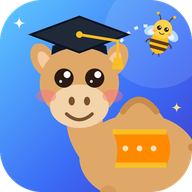
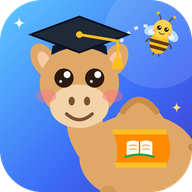
Сабур: на попоне раскрытая книга (знания); Алифба открыта в списке предметов уроков
Claude-Session: https://claude.ai/code/session_01Cm4BGiETkxANavc8i9VW5H

Changed region(s): [[0.625, 0.7188, 0.8125, 0.8438]]

diff --git a/index.html b/index.html
@@ -436,6 +436,7 @@ html[data-theme] .abopts .lopt.ar{font-size:40px;text-align:center;line-height:1
 .abf i{font-style:normal;font-size:30px;line-height:1.5}.abf small{font-size:10px;color:var(--mut);direction:ltr}
 .abgrid{display:grid;grid-template-columns:repeat(3,1fr);gap:10px;margin:10px 0}.abc{display:flex;flex-direction:column;align-items:center;background:var(--card2);border-radius:16px;padding:8px}.abc small{color:var(--mut)}
 .abrow{display:flex;flex-wrap:wrap;gap:8px;justify-content:center;font-size:34px;margin:8px 0}.abg{font-size:38px;background:var(--qbg);border-radius:12px;padding:0 10px}
+button.sj{border:0;font:inherit;font-weight:800;cursor:pointer}.sj.cur{box-shadow:0 0 0 2px var(--q) inset}
 </style>
 <script>(function(){var t="light";try{t=JSON.parse(localStorage.getItem("theme"))||"light"}catch(e){}document.documentElement.setAttribute("data-theme",t==="dark"?"dark":"light")})()</script>
 </head>
@@ -474,7 +475,7 @@ var OLD_EMOJI={"🦁":"b-lion","🐯":"b-tiger","🐺":"b-wolf","🐻":"b-bear",
   d.innerHTML='<svg xmlns="http://www.w3.org/2000/svg" width="0" height="0">'+AVS.map(function(a){return '<symbol id="av-'+a[0]+'" viewBox="0 0 100 100">'+a[3]+'</symbol>'}).join("")+'</svg>';
   document.body.appendChild(d)})();
 /* Персонажи платформы: верблюжонок Сабур и его помощница пчёлка Асаль */
-var MASC={"sab": "<ellipse cx=\"118\" cy=\"128\" rx=\"46\" ry=\"34\" fill=\"#e0a868\"/><path d=\"M96 104Q118 62 142 104Z\" fill=\"#e0a868\"/><path d=\"M106 92q12 -18 26 0\" stroke=\"#c98d4b\" stroke-width=\"5\" fill=\"none\" stroke-linecap=\"round\"/><rect x=\"88\" y=\"150\" width=\"13\" height=\"36\" rx=\"6\" fill=\"#d39a58\"/><rect x=\"108\" y=\"152\" width=\"13\" height=\"34\" rx=\"6\" fill=\"#e0a868\"/><rect x=\"132\" y=\"152\" width=\"13\" height=\"34\" rx=\"6\" fill=\"#d39a58\"/><rect x=\"150\" y=\"148\" width=\"13\" height=\"38\" rx=\"6\" fill=\"#e0a868\"/><path d=\"M160 120q16 4 14 22\" stroke=\"#c98d4b\" stroke-width=\"6\" fill=\"none\" stroke-linecap=\"round\"/><path d=\"M64 86Q56 112 80 138L104 128Q88 110 90 86Z\" fill=\"#e0a868\"/><ellipse cx=\"44\" cy=\"52\" rx=\"9\" ry=\"14\" transform=\"rotate(-28 44 52)\" fill=\"#e0a868\"/><ellipse cx=\"45\" cy=\"53\" rx=\"4.5\" ry=\"8.5\" transform=\"rotate(-28 45 53)\" fill=\"#f7c9a0\"/><ellipse cx=\"100\" cy=\"52\" rx=\"9\" ry=\"14\" transform=\"rotate(28 100 52)\" fill=\"#e0a868\"/><ellipse cx=\"99\" cy=\"53\" rx=\"4.5\" ry=\"8.5\" transform=\"rotate(28 99 53)\" fill=\"#f7c9a0\"/><ellipse cx=\"72\" cy=\"70\" rx=\"31\" ry=\"29\" fill=\"#e0a868\"/><ellipse cx=\"72\" cy=\"88\" rx=\"23\" ry=\"17\" fill=\"#f3d3a9\"/><circle cx=\"60\" cy=\"66\" r=\"7.5\" fill=\"#2a1a12\"/><circle cx=\"62.4\" cy=\"63.3\" r=\"2.6999999999999997\" fill=\"#fff\"/><circle cx=\"57.375\" cy=\"68.625\" r=\"1.2\" fill=\"#fff\" opacity=\".8\"/><circle cx=\"84\" cy=\"66\" r=\"7.5\" fill=\"#2a1a12\"/><circle cx=\"86.4\" cy=\"63.3\" r=\"2.6999999999999997\" fill=\"#fff\"/><circle cx=\"81.375\" cy=\"68.625\" r=\"1.2\" fill=\"#fff\" opacity=\".8\"/><ellipse cx=\"46\" cy=\"80\" rx=\"8\" ry=\"5\" fill=\"#fb7185\" opacity=\".45\"/><ellipse cx=\"98\" cy=\"80\" rx=\"8\" ry=\"5\" fill=\"#fb7185\" opacity=\".45\"/><ellipse cx=\"66\" cy=\"84\" rx=\"2.4\" ry=\"3.4\" fill=\"#7a5230\"/><ellipse cx=\"78\" cy=\"84\" rx=\"2.4\" ry=\"3.4\" fill=\"#7a5230\"/><path d=\"M62 94q10 9 20 0\" stroke=\"#7a5230\" stroke-width=\"2.6\" fill=\"none\" stroke-linecap=\"round\"/><path d=\"M98 108L140 108Q146 122 140 134L100 134Q104 120 98 108Z\" fill=\"#FF8A00\"/><path d=\"M98 108L140 108\" stroke=\"#fbbf24\" stroke-width=\"4\"/><path d=\"M100 134L140 134\" stroke=\"#fbbf24\" stroke-width=\"4\"/><circle cx=\"108\" cy=\"121\" r=\"2.2\" fill=\"#FFE1B3\"/><circle cx=\"119\" cy=\"121\" r=\"2.2\" fill=\"#FFE1B3\"/><circle cx=\"130\" cy=\"121\" r=\"2.2\" fill=\"#FFE1B3\"/><path d=\"M50 48Q72 36 94 48L93 41Q72 31 51 41Z\" fill=\"#111827\"/><path d=\"M72 18L110 32L72 46L34 32Z\" fill=\"#1f2937\"/><path d=\"M72 18L110 32L72 46L34 32Z\" fill=\"none\" stroke=\"#0b1220\" stroke-width=\"1.5\"/><circle cx=\"72\" cy=\"32\" r=\"2.6\" fill=\"#fbbf24\"/><path d=\"M72 32L102 37L102 52\" stroke=\"#fbbf24\" stroke-width=\"2.2\" fill=\"none\" stroke-linecap=\"round\"/><path d=\"M99 50h6l1.5 9h-9Z\" fill=\"#fbbf24\"/>", "asl": "<ellipse cx=\"58\" cy=\"96\" rx=\"30\" ry=\"20\" transform=\"rotate(-28 58 96)\" fill=\"#bfe3ff\" opacity=\".9\"/><ellipse cx=\"142\" cy=\"96\" rx=\"30\" ry=\"20\" transform=\"rotate(28 142 96)\" fill=\"#bfe3ff\" opacity=\".9\"/><ellipse cx=\"62\" cy=\"100\" rx=\"18\" ry=\"11\" transform=\"rotate(-28 62 100)\" fill=\"#e6f4ff\"/><ellipse cx=\"138\" cy=\"100\" rx=\"18\" ry=\"11\" transform=\"rotate(28 138 100)\" fill=\"#e6f4ff\"/><defs><clipPath id=\"ms-bb\"><ellipse cx=\"100\" cy=\"138\" rx=\"38\" ry=\"44\"/><\/clipPath><\/defs><ellipse cx=\"100\" cy=\"138\" rx=\"38\" ry=\"44\" fill=\"#fbbf24\"/><g clip-path=\"url(#ms-bb)\"><rect x=\"50\" y=\"128\" width=\"100\" height=\"13\" fill=\"#5b3a1a\"/><rect x=\"50\" y=\"152\" width=\"100\" height=\"13\" fill=\"#5b3a1a\"/><\/g><path d=\"M90 180l-3 9M110 180l3 9\" stroke=\"#5b3a1a\" stroke-width=\"4\" stroke-linecap=\"round\"/><path d=\"M64 130q-14 4 -16 16M136 130q14 4 16 16\" stroke=\"#5b3a1a\" stroke-width=\"5\" fill=\"none\" stroke-linecap=\"round\"/><path d=\"M84 48Q76 26 66 22M116 48Q124 26 134 22\" stroke=\"#5b3a1a\" stroke-width=\"4\" fill=\"none\" stroke-linecap=\"round\"/><circle cx=\"66\" cy=\"22\" r=\"6\" fill=\"#fbbf24\"/><circle cx=\"134\" cy=\"22\" r=\"6\" fill=\"#fbbf24\"/><circle cx=\"100\" cy=\"80\" r=\"38\" fill=\"#fcd34d\"/><circle cx=\"85\" cy=\"78\" r=\"9\" fill=\"#2a1a12\"/><circle cx=\"87.88\" cy=\"74.76\" r=\"3.2399999999999998\" fill=\"#fff\"/><circle cx=\"81.85\" cy=\"81.15\" r=\"1.44\" fill=\"#fff\" opacity=\".8\"/><circle cx=\"115\" cy=\"78\" r=\"9\" fill=\"#2a1a12\"/><circle cx=\"117.88\" cy=\"74.76\" r=\"3.2399999999999998\" fill=\"#fff\"/><circle cx=\"111.85\" cy=\"81.15\" r=\"1.44\" fill=\"#fff\" opacity=\".8\"/><ellipse cx=\"68\" cy=\"94\" rx=\"8\" ry=\"5\" fill=\"#fb7185\" opacity=\".45\"/><ellipse cx=\"132\" cy=\"94\" rx=\"8\" ry=\"5\" fill=\"#fb7185\" opacity=\".45\"/><path d=\"M90 96q10 10 20 0\" stroke=\"#5b3a1a\" stroke-width=\"3\" fill=\"none\" stroke-linecap=\"round\"/>"};
+var MASC={"sab": "<ellipse cx=\"118\" cy=\"128\" rx=\"46\" ry=\"34\" fill=\"#e0a868\"/><path d=\"M96 104Q118 62 142 104Z\" fill=\"#e0a868\"/><path d=\"M106 92q12 -18 26 0\" stroke=\"#c98d4b\" stroke-width=\"5\" fill=\"none\" stroke-linecap=\"round\"/><rect x=\"88\" y=\"150\" width=\"13\" height=\"36\" rx=\"6\" fill=\"#d39a58\"/><rect x=\"108\" y=\"152\" width=\"13\" height=\"34\" rx=\"6\" fill=\"#e0a868\"/><rect x=\"132\" y=\"152\" width=\"13\" height=\"34\" rx=\"6\" fill=\"#d39a58\"/><rect x=\"150\" y=\"148\" width=\"13\" height=\"38\" rx=\"6\" fill=\"#e0a868\"/><path d=\"M160 120q16 4 14 22\" stroke=\"#c98d4b\" stroke-width=\"6\" fill=\"none\" stroke-linecap=\"round\"/><path d=\"M64 86Q56 112 80 138L104 128Q88 110 90 86Z\" fill=\"#e0a868\"/><ellipse cx=\"44\" cy=\"52\" rx=\"9\" ry=\"14\" transform=\"rotate(-28 44 52)\" fill=\"#e0a868\"/><ellipse cx=\"45\" cy=\"53\" rx=\"4.5\" ry=\"8.5\" transform=\"rotate(-28 45 53)\" fill=\"#f7c9a0\"/><ellipse cx=\"100\" cy=\"52\" rx=\"9\" ry=\"14\" transform=\"rotate(28 100 52)\" fill=\"#e0a868\"/><ellipse cx=\"99\" cy=\"53\" rx=\"4.5\" ry=\"8.5\" transform=\"rotate(28 99 53)\" fill=\"#f7c9a0\"/><ellipse cx=\"72\" cy=\"70\" rx=\"31\" ry=\"29\" fill=\"#e0a868\"/><ellipse cx=\"72\" cy=\"88\" rx=\"23\" ry=\"17\" fill=\"#f3d3a9\"/><circle cx=\"60\" cy=\"66\" r=\"7.5\" fill=\"#2a1a12\"/><circle cx=\"62.4\" cy=\"63.3\" r=\"2.6999999999999997\" fill=\"#fff\"/><circle cx=\"57.375\" cy=\"68.625\" r=\"1.2\" fill=\"#fff\" opacity=\".8\"/><circle cx=\"84\" cy=\"66\" r=\"7.5\" fill=\"#2a1a12\"/><circle cx=\"86.4\" cy=\"63.3\" r=\"2.6999999999999997\" fill=\"#fff\"/><circle cx=\"81.375\" cy=\"68.625\" r=\"1.2\" fill=\"#fff\" opacity=\".8\"/><ellipse cx=\"46\" cy=\"80\" rx=\"8\" ry=\"5\" fill=\"#fb7185\" opacity=\".45\"/><ellipse cx=\"98\" cy=\"80\" rx=\"8\" ry=\"5\" fill=\"#fb7185\" opacity=\".45\"/><ellipse cx=\"66\" cy=\"84\" rx=\"2.4\" ry=\"3.4\" fill=\"#7a5230\"/><ellipse cx=\"78\" cy=\"84\" rx=\"2.4\" ry=\"3.4\" fill=\"#7a5230\"/><path d=\"M62 94q10 9 20 0\" stroke=\"#7a5230\" stroke-width=\"2.6\" fill=\"none\" stroke-linecap=\"round\"/><path d=\"M98 108L140 108Q146 122 140 134L100 134Q104 120 98 108Z\" fill=\"#FF8A00\"/><path d=\"M98 108L140 108\" stroke=\"#fbbf24\" stroke-width=\"4\"/><path d=\"M100 134L140 134\" stroke=\"#fbbf24\" stroke-width=\"4\"/><g transform=\"translate(119 121)\"><path d=\"M-10 -5Q-5 -7.5 0 -5L0 6Q-5 3.5 -10 6Z\" fill=\"#FFF7E6\"/><path d=\"M10 -5Q5 -7.5 0 -5L0 6Q5 3.5 10 6Z\" fill=\"#FFFDF5\"/><path d=\"M0 -5V6\" stroke=\"#C26D00\" stroke-width=\"1\"/><path d=\"M-8 -2Q-5 -3.3 -2 -2M-8 1Q-5 -.3 -2 1M2 -2Q5 -3.3 8 -2M2 1Q5 -.3 8 1\" stroke=\"#E7B36A\" stroke-width=\".9\" fill=\"none\"/><path d=\"M-11 6.5Q0 3 11 6.5\" stroke=\"#16A34A\" stroke-width=\"1.6\" fill=\"none\" stroke-linecap=\"round\"/><\/g><path d=\"M50 48Q72 36 94 48L93 41Q72 31 51 41Z\" fill=\"#111827\"/><path d=\"M72 18L110 32L72 46L34 32Z\" fill=\"#1f2937\"/><path d=\"M72 18L110 32L72 46L34 32Z\" fill=\"none\" stroke=\"#0b1220\" stroke-width=\"1.5\"/><circle cx=\"72\" cy=\"32\" r=\"2.6\" fill=\"#fbbf24\"/><path d=\"M72 32L102 37L102 52\" stroke=\"#fbbf24\" stroke-width=\"2.2\" fill=\"none\" stroke-linecap=\"round\"/><path d=\"M99 50h6l1.5 9h-9Z\" fill=\"#fbbf24\"/>", "asl": "<ellipse cx=\"58\" cy=\"96\" rx=\"30\" ry=\"20\" transform=\"rotate(-28 58 96)\" fill=\"#bfe3ff\" opacity=\".9\"/><ellipse cx=\"142\" cy=\"96\" rx=\"30\" ry=\"20\" transform=\"rotate(28 142 96)\" fill=\"#bfe3ff\" opacity=\".9\"/><ellipse cx=\"62\" cy=\"100\" rx=\"18\" ry=\"11\" transform=\"rotate(-28 62 100)\" fill=\"#e6f4ff\"/><ellipse cx=\"138\" cy=\"100\" rx=\"18\" ry=\"11\" transform=\"rotate(28 138 100)\" fill=\"#e6f4ff\"/><defs><clipPath id=\"ms-bb\"><ellipse cx=\"100\" cy=\"138\" rx=\"38\" ry=\"44\"/><\/clipPath><\/defs><ellipse cx=\"100\" cy=\"138\" rx=\"38\" ry=\"44\" fill=\"#fbbf24\"/><g clip-path=\"url(#ms-bb)\"><rect x=\"50\" y=\"128\" width=\"100\" height=\"13\" fill=\"#5b3a1a\"/><rect x=\"50\" y=\"152\" width=\"100\" height=\"13\" fill=\"#5b3a1a\"/><\/g><path d=\"M90 180l-3 9M110 180l3 9\" stroke=\"#5b3a1a\" stroke-width=\"4\" stroke-linecap=\"round\"/><path d=\"M64 130q-14 4 -16 16M136 130q14 4 16 16\" stroke=\"#5b3a1a\" stroke-width=\"5\" fill=\"none\" stroke-linecap=\"round\"/><path d=\"M84 48Q76 26 66 22M116 48Q124 26 134 22\" stroke=\"#5b3a1a\" stroke-width=\"4\" fill=\"none\" stroke-linecap=\"round\"/><circle cx=\"66\" cy=\"22\" r=\"6\" fill=\"#fbbf24\"/><circle cx=\"134\" cy=\"22\" r=\"6\" fill=\"#fbbf24\"/><circle cx=\"100\" cy=\"80\" r=\"38\" fill=\"#fcd34d\"/><circle cx=\"85\" cy=\"78\" r=\"9\" fill=\"#2a1a12\"/><circle cx=\"87.88\" cy=\"74.76\" r=\"3.2399999999999998\" fill=\"#fff\"/><circle cx=\"81.85\" cy=\"81.15\" r=\"1.44\" fill=\"#fff\" opacity=\".8\"/><circle cx=\"115\" cy=\"78\" r=\"9\" fill=\"#2a1a12\"/><circle cx=\"117.88\" cy=\"74.76\" r=\"3.2399999999999998\" fill=\"#fff\"/><circle cx=\"111.85\" cy=\"81.15\" r=\"1.44\" fill=\"#fff\" opacity=\".8\"/><ellipse cx=\"68\" cy=\"94\" rx=\"8\" ry=\"5\" fill=\"#fb7185\" opacity=\".45\"/><ellipse cx=\"132\" cy=\"94\" rx=\"8\" ry=\"5\" fill=\"#fb7185\" opacity=\".45\"/><path d=\"M90 96q10 10 20 0\" stroke=\"#5b3a1a\" stroke-width=\"3\" fill=\"none\" stroke-linecap=\"round\"/>"};
 (function(){var d=document.createElement("div");d.setAttribute("aria-hidden","true");d.style.cssText="position:absolute;width:0;height:0;overflow:hidden";
   d.innerHTML='<svg xmlns="http://www.w3.org/2000/svg" width="0" height="0">'+Object.keys(MASC).map(function(k){return '<symbol id="ms-'+k+'" viewBox="0 0 200 200">'+MASC[k]+'</symbol>'}).join("")+'</svg>';document.body.appendChild(d)})();
 function mas(k,w,cls){return '<svg'+(cls?' class="'+cls+'"':"")+' viewBox="0 0 200 200" width="'+w+'" height="'+w+'" aria-hidden="true"><use href="#ms-'+k+'"/></svg>'}
@@ -1922,7 +1923,7 @@ function vListen(){
 // порядок аятов, какой аят звучит, смысл аята, пропущенное слово, найди пару, что за сура.
 var QD=null,QDerr="",LP=null,LS=null,LA=null,LAerr=false;
 var LMOD={id:"q30",name:"Понимаю суры 30-го джуза",list:[1].concat((function(){var a=[];for(var i=114;i>=78;i--)a.push(i);return a})())};
-var SUBJ=[["q","📖","Коран",1],["a","🔤","Арабский",0],["f","🕌","Фикх",0],["k","💎","Акида",0],["x","🌸","Ахляк",0],["h","📜","Хадисы",0],["s","🐪","Сира",0]];
+var SUBJ=[["q","📖","Коран",1],["a","🔤","Алифба",1],["f","🕌","Фикх",0],["k","💎","Акида",0],["x","🌸","Ахляк",0],["h","📜","Хадисы",0],["s","🐪","Сира",0]];
 function qdLoad(){if(QD||QDerr==="busy")return;QDerr="busy";fetch("q30.json").then(function(r){if(!r.ok)throw 0;return r.json()}).then(function(d){QD=d;QDerr="";render()}).catch(function(){QDerr="Не удалось загрузить суры. Проверьте интернет.";render()})}
 function lsid(){return STOK?STOK.sid:PTOK?PTOK.sid:null}
 function lpLoad(){
@@ -1990,7 +1991,7 @@ function lsNext(){
 function vLessons(){
   qdLoad();if(!LP)lpLoad();
   if(LS)return vLesson();
-  var h=STOK&&!canEdit()?"":'<div class="box"><h2>🎓 Уроки</h2><div class="subj">'+SUBJ.map(function(s){return '<span class="sj'+(s[3]?" on":"")+'">'+s[1]+' '+s[2]+(s[3]?"":'<small>скоро</small>')+'</span>'}).join("")+'</div></div>';
+  var h=STOK&&!canEdit()?"":'<div class="box"><h2>🎓 Уроки</h2><div class="subj">'+SUBJ.map(function(s){return s[3]?'<button class="sj on'+((UI.course==="ab")===(s[0]==="a")?" cur":"")+'" data-a="course" data-v="'+(s[0]==="a"?"ab":"q")+'">'+s[1]+' '+s[2]+'</button>':'<span class="sj">'+s[1]+' '+s[2]+'<small>скоро</small></span>'}).join("")+'</div></div>';
   if(!QD)return h+'<div class="box cen mut">'+(QDerr&&QDerr!=="busy"?esc(QDerr):"Загрузка…")+'</div>';
   var cs=UI.course==="ab"?"ab":"q";
   h+='<div class="seg wide2" style="margin-bottom:12px"><button class="'+(cs==="q"?"on":"")+'" data-a="course" data-v="q">📖 Суры</button><button class="'+(cs==="ab"?"on":"")+'" data-a="course" data-v="ab">🔤 Алифба</button></div>';
